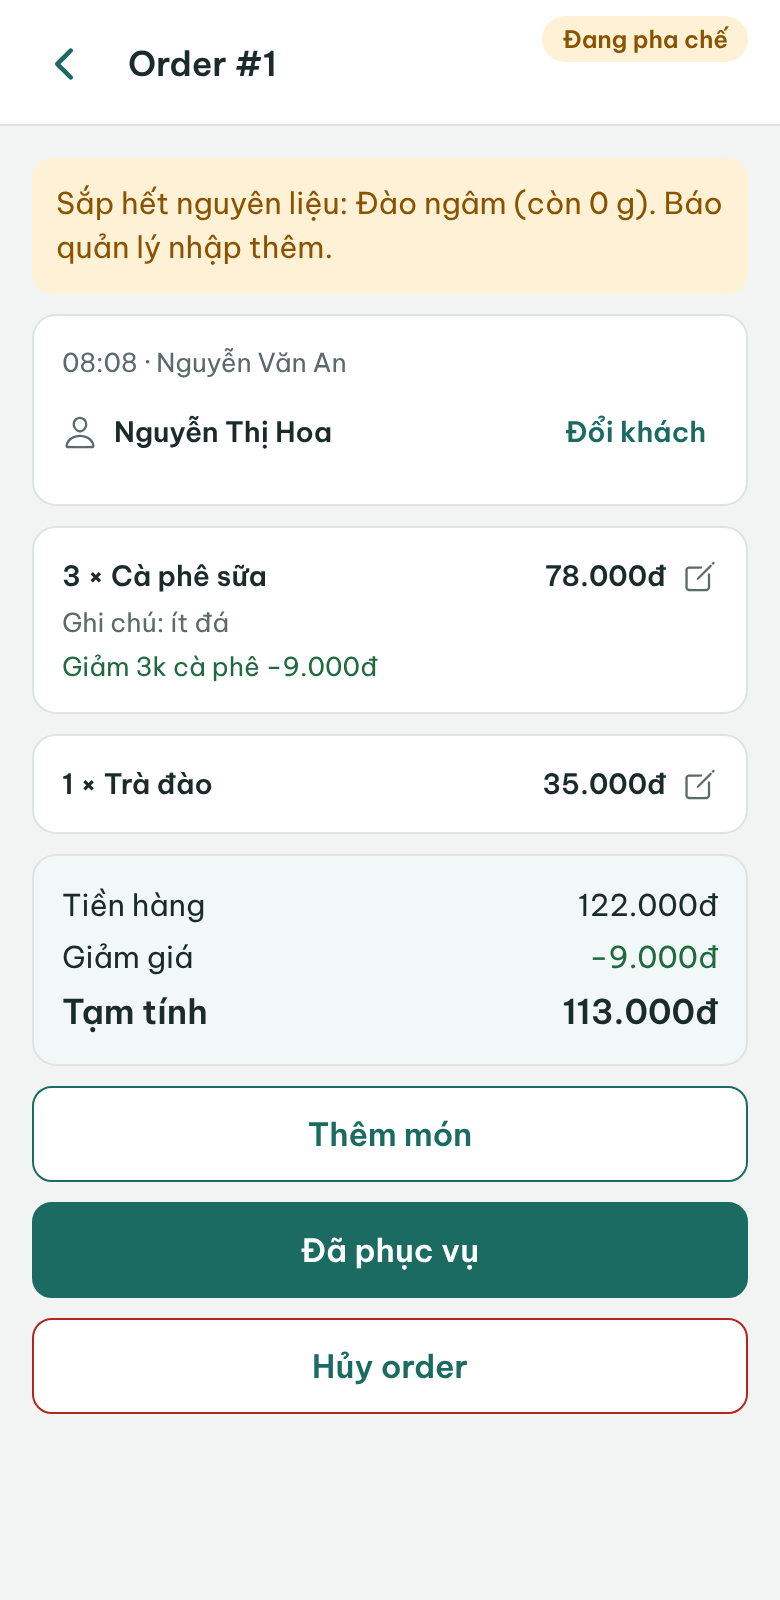
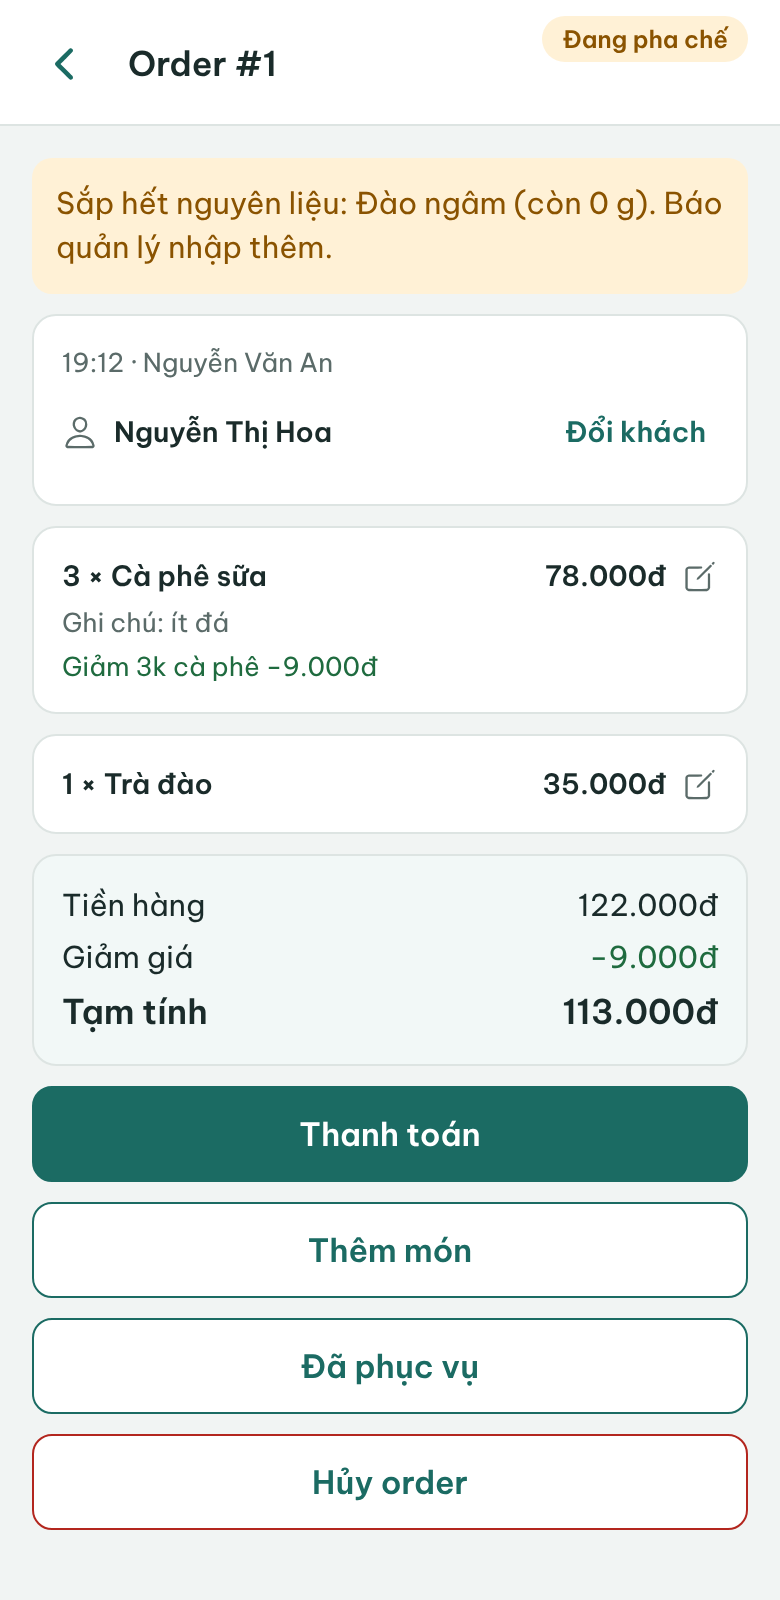
giao diện thanh toán

diff --git a/mobile/src/app/order/[ma].tsx b/mobile/src/app/order/[ma].tsx
@@ -1,17 +1,17 @@
 // POS-11 xem order + POS-03/04/05 sửa món + POS-06 gắn khách + POS-07 đã phục vụ + POS-09 hủy.
 import { useEffect, useState } from 'react';
-import { ActivityIndicator, Pressable, RefreshControl, ScrollView, StyleSheet, View } from 'react-native';
+import { ActivityIndicator, Pressable, RefreshControl, ScrollView, Share, StyleSheet, View } from 'react-native';
 import { useLocalSearchParams, useRouter } from 'expo-router';
 import { useSafeAreaInsets } from 'react-native-safe-area-context';
 import { Ionicons } from '@expo/vector-icons';
 import { useTai } from '../../hooks/useTai';
 import { useGioHang } from '../../context/GioHang';
-import { chiTietOrder, daPhucVu, ganKhach, huyOrder, orderDangMo, suaDong, TEN_TRANG_THAI, xoaDong, type DongOrder } from '../../api/hoa-don';
+import { chiTietOrder, daPhucVu, ganKhach, huyOrder, orderDangMo, suaDong, TEN_PHUONG_THUC, TEN_TRANG_THAI, thanhToan, xoaDong, type DongOrder, type KetQuaThanhToan, type Order, type PhuongThuc } from '../../api/hoa-don';
 import { ApiError, thongBaoLoi } from '../../api/http';
 import { Banner, Chip, Chu, Nut, The } from '../../components/ui';
 import { HopXacNhan } from '../../components/HopXacNhan';
-import { HopDaLam, HopGanKhach, HopSuaDong } from '../../components/HopHoiThoai';
-import { gioTuIso, tien } from '../../utils/tien';
+import { HopDaLam, HopGanKhach, HopSuaDong, HopThanhToan } from '../../components/HopHoiThoai';
+import { gioTuIso, ngayGio, tien } from '../../utils/tien';
 import { loaiChip } from '../(tabs)/order';
 import { mau } from '../../theme';
 
@@ -19,7 +19,14 @@ type Hop =
   | { loai: 'sua'; dong: DongOrder }
   | { loai: 'giam'; dong: DongOrder; soLuong: number; ghiChu: string | null }
   | { loai: 'xoa'; dong: DongOrder }
-  | { loai: 'khach' } | { loai: 'phucVu' } | { loai: 'huy' };
+  | { loai: 'khach' } | { loai: 'phucVu' } | { loai: 'huy' } | { loai: 'thanhToan' };
+
+// Nội dung hóa đơn dạng chữ để gửi qua Zalo/Messenger/in (POS-11)
+function vanBanHoaDon(o: Order) {
+  const dong = o.chi_tiet.map((d) => `${d.so_luong} x ${d.ten_san_pham}${d.ghi_chu ? ` (${d.ghi_chu})` : ''}: ${tien(d.thanh_tien)}`);
+  return ['HÓA ĐƠN #' + o.so_thu_tu, ngayGio(o.thoi_gian_tao), ...dong, `Tiền hàng: ${tien(o.tong_tien_hang)}`, ...(o.tong_giam_gia > 0 ? [`Giảm giá: -${tien(o.tong_giam_gia)}`] : []),
+    `TỔNG: ${tien(o.tong_tien ?? o.tong_tien_tam_tinh)}`, `Thanh toán: ${o.phuong_thuc_thanh_toan ? TEN_PHUONG_THUC[o.phuong_thuc_thanh_toan as PhuongThuc] ?? o.phuong_thuc_thanh_toan : ''}`, ...(o.ten_khach_hang ? [`Khách: ${o.ten_khach_hang}`] : []), `Nhân viên: ${o.ten_nhan_vien}`].join('\n');
+}
 
 export default function ChiTietOrder() {
   const { ma: maChuoi } = useLocalSearchParams<{ ma: string }>();
@@ -32,6 +39,7 @@ export default function ChiTietOrder() {
   const [dang, setDang] = useState(false);
   const [loiHop, setLoiHop] = useState('');
   const [baoKho] = useState(gio.canhBaoKho);
+  const [vuaTT, setVuaTT] = useState<KetQuaThanhToan | null>(null);
   useEffect(() => { if (gio.canhBaoKho.length) gio.datCanhBaoKho([]); }, [gio]); // nhận cảnh báo kho vừa gửi, rồi xóa khỏi giỏ
 
   const dong = () => { setHop(null); setLoiHop(''); };
@@ -43,6 +51,8 @@ export default function ChiTietOrder() {
     catch (e) { setLoiHop(thongBaoLoi(e)); if (e instanceof ApiError && e.ma === 'HOA_DON_DA_DONG') { dong(); taiNgam(); } }
     finally { setDang(false); }
   };
+
+  const chiaSe = async () => { if (o) { try { await Share.share({ message: vanBanHoaDon(o) }); } catch { /* người dùng đóng hộp chia sẻ */ } } };
 
   const quay = () => (router.canGoBack() ? router.back() : router.replace('/order'));
   const mo = o ? orderDangMo(o.trang_thai) : false;
@@ -58,7 +68,12 @@ export default function ChiTietOrder() {
       <ScrollView contentContainerStyle={{ padding: 16, gap: 10, paddingBottom: 24 }} refreshControl={<RefreshControl refreshing={dangLamMoi} onRefresh={lamMoi} colors={[mau.teal]} />}>
         {loi ? <Banner taiLai={taiLai}>{loi}</Banner> : null}
         {dangTai && !o ? <ActivityIndicator color={mau.teal} style={{ marginTop: 40 }} /> : null}
-        {baoKho.length > 0 && (
+        {vuaTT && o?.trang_thai === 'da_thanh_toan' && (
+          <Banner loai="ok">
+            Đã thanh toán {tien(vuaTT.hoa_don.tong_tien ?? 0)}.{vuaTT.diem_hien_tai !== null ? ` Cộng ${vuaTT.diem_cong} điểm, khách có ${vuaTT.diem_hien_tai} điểm.` : ' Khách lẻ, không tích điểm.'}
+          </Banner>
+        )}
+        {baoKho.length > 0 && mo && (
           <Banner loai="canhBao">
             Sắp hết nguyên liệu: {baoKho.map((c) => `${c.ten_nguyen_lieu} (còn ${c.so_luong_ton} ${c.don_vi_tinh})`).join(', ')}. Báo quản lý nhập thêm.
           </Banner>
@@ -66,7 +81,8 @@ export default function ChiTietOrder() {
         {o && (
           <>
             <The style={{ gap: 4 }}>
-              <Chu kieu="nho">{gioTuIso(o.thoi_gian_tao)} · {o.ten_nhan_vien}</Chu>
+              <Chu kieu="nho">{o.trang_thai === 'da_thanh_toan' ? ngayGio(o.thoi_gian_tao) : gioTuIso(o.thoi_gian_tao)} · {o.ten_nhan_vien}</Chu>
+              {o.trang_thai === 'da_thanh_toan' && o.phuong_thuc_thanh_toan ? <Chu kieu="nho">Thanh toán: {TEN_PHUONG_THUC[o.phuong_thuc_thanh_toan as PhuongThuc] ?? o.phuong_thuc_thanh_toan}</Chu> : null}
               <View style={s.hang}>
                 <Ionicons name="person-outline" size={18} color={mau.muted} />
                 <Chu kieu="nhan" style={{ flex: 1 }}>{o.ten_khach_hang ?? 'Khách lẻ'}</Chu>
@@ -96,9 +112,15 @@ export default function ChiTietOrder() {
 
             {mo ? (
               <View style={{ gap: 10 }}>
+                <Nut nhan="Thanh toán" onPress={() => setHop({ loai: 'thanhToan' })} />
                 <Nut nhan="Thêm món" kieu="vien" onPress={() => { gio.xoaHet(); gio.datDich({ ma_hoa_don: o.ma_hoa_don, so_thu_tu: o.so_thu_tu }); router.dismissTo('/'); }} />
-                {pha && <Nut nhan="Đã phục vụ" onPress={() => setHop({ loai: 'phucVu' })} />}
+                {pha && <Nut nhan="Đã phục vụ" kieu="vien" onPress={() => setHop({ loai: 'phucVu' })} />}
                 <Nut nhan="Hủy order" kieu="vien" onPress={() => setHop({ loai: 'huy' })} style={{ borderColor: mau.loi }} />
+              </View>
+            ) : o.trang_thai === 'da_thanh_toan' ? (
+              <View style={{ gap: 10 }}>
+                <Nut nhan="Chia sẻ hóa đơn" kieu="vien" onPress={chiaSe} />
+                <Chu kieu="nho" style={{ textAlign: 'center' }}>Hóa đơn đã thanh toán, không thể sửa.</Chu>
               </View>
             ) : <Chu kieu="nho" style={{ textAlign: 'center' }}>Order {TEN_TRANG_THAI[o.trang_thai].toLowerCase()}, không thể sửa.</Chu>}
           </>
@@ -127,6 +149,10 @@ export default function ChiTietOrder() {
       ) : (
         <HopXacNhan hien tieuDe="Xóa món?" noiDung={`Xóa ${hop.dong.ten_san_pham} khỏi order.${loiHop ? ` ${loiHop}` : ''}`} nhanXacNhan="Xóa món" nguyHiem onHuy={dong} onXacNhan={() => chay(() => xoaDong(ma, hop.dong.ma_chi_tiet))} />
       ))}
+      {o && hop?.loai === 'thanhToan' && (
+        <HopThanhToan key="tt" hien tong={o.tong_tien_tam_tinh} tenKhach={o.ten_khach_hang} loi={loiHop} dangXuLy={dang} onHuy={dong}
+          onXacNhan={(pt) => chay(async () => { setVuaTT(await thanhToan(ma, pt)); })} />
+      )}
       {hop?.loai === 'khach' && <HopGanKhach hien loi={loiHop} dangXuLy={dang} onHuy={dong} onGan={(sdt) => chay(() => ganKhach(ma, sdt))} />}
       {hop?.loai === 'phucVu' && <HopXacNhan hien tieuDe="Đã phục vụ?" noiDung={`Đánh dấu Order #${o?.so_thu_tu} đã phục vụ khách.${loiHop ? ` ${loiHop}` : ''}`} nhanXacNhan="Đã phục vụ" onHuy={dong} onXacNhan={() => chay(() => daPhucVu(ma))} />}
       {o && hop?.loai === 'huy' && (pha ? (

diff --git a/mobile/src/components/HopHoiThoai.tsx b/mobile/src/components/HopHoiThoai.tsx
@@ -1,7 +1,10 @@
 // Các hộp thoại của màn Order (dựng bằng Modal để chạy cả trên web).
 import { useState } from 'react';
-import { KeyboardAvoidingView, Modal, Platform, ScrollView, StyleSheet, View } from 'react-native';
+import { KeyboardAvoidingView, Modal, Platform, Pressable, ScrollView, StyleSheet, View } from 'react-native';
 import { bo, mau } from '../theme';
+import { Ionicons } from '@expo/vector-icons';
+import { DIEM_MOI_VND, TEN_PHUONG_THUC, type PhuongThuc } from '../api/hoa-don';
+import { tien } from '../utils/tien';
 import { BoDem, Chu, Nut, TruongNhap } from './ui';
 
 function Khung({ hien, onHuy, children }: { hien: boolean; onHuy: () => void; children: React.ReactNode }) {
@@ -84,7 +87,54 @@ export function HopSuaDong({ hien, ten, soLuong, ghiChu, toiThieuLaMot, loi, dan
   );
 }
 
+// POS-08: chọn phương thức thanh toán. Tiền mặt: nhập tiền khách đưa để xem tiền thối (chỉ để tham khảo, không gửi lên máy chủ).
+export function HopThanhToan({ hien, tong, tenKhach, loi, dangXuLy, onXacNhan, onHuy }: {
+  hien: boolean; tong: number; tenKhach: string | null; loi?: string; dangXuLy?: boolean; onXacNhan: (pt: PhuongThuc) => void; onHuy: () => void;
+}) {
+  const [pt, setPt] = useState<PhuongThuc>('tien_mat');
+  const [dua, setDua] = useState('');
+  const dauVao = Number(dua.replace(/\D/g, ''));
+  const goiY = [...new Set([tong, ...[20000, 50000, 100000, 200000, 500000].filter((m) => m > tong).slice(0, 3)])];
+  const diem = tenKhach ? Math.floor(tong / DIEM_MOI_VND) : 0;
+  return (
+    <Khung hien={hien} onHuy={onHuy}>
+      <Chu kieu="tieuMuc">Thanh toán</Chu>
+      <Chu kieu="tieuDe" style={{ color: mau.tealDam }}>{tien(tong)}</Chu>
+      <Chu kieu="nho">{tenKhach ? `Khách ${tenKhach}: cộng khoảng ${diem} điểm (cứ ${tien(DIEM_MOI_VND)} = 1 điểm).` : 'Khách lẻ: không tích điểm.'}</Chu>
+      {loi ? <Chu kieu="nho" style={{ color: mau.loi }}>{loi}</Chu> : null}
+      {(Object.keys(TEN_PHUONG_THUC) as PhuongThuc[]).map((k) => (
+        <Pressable key={k} accessibilityRole="radio" aria-checked={pt === k} accessibilityState={{ checked: pt === k }} accessibilityLabel={TEN_PHUONG_THUC[k]} onPress={() => setPt(k)} style={[s.chon, pt === k && { borderColor: mau.teal, backgroundColor: mau.tealHang }]}>
+          <Ionicons name={pt === k ? 'radio-button-on' : 'radio-button-off'} size={22} color={pt === k ? mau.teal : mau.muted} />
+          <Chu kieu="nhan">{TEN_PHUONG_THUC[k]}</Chu>
+        </Pressable>
+      ))}
+      {pt === 'tien_mat' && (
+        <View style={{ gap: 8 }}>
+          <TruongNhap nhan="Tiền khách đưa (không bắt buộc)" value={dua} onChangeText={setDua} keyboardType="number-pad" />
+          <View style={s.goiY}>
+            {goiY.map((m) => (
+              <Pressable key={m} accessibilityRole="button" accessibilityLabel={m === tong ? 'Vừa đủ' : `Đưa ${tien(m)}`} onPress={() => setDua(String(m))} style={s.chip}>
+                <Chu kieu="nhan" style={{ color: mau.teal }}>{m === tong ? 'Vừa đủ' : tien(m)}</Chu>
+              </Pressable>
+            ))}
+          </View>
+          {dua !== '' && (dauVao >= tong
+            ? <Chu kieu="tieuMuc" style={{ color: mau.okChu }}>Tiền thối: {tien(dauVao - tong)}</Chu>
+            : <Chu kieu="nhan" style={{ color: mau.loi }}>Chưa đủ, còn thiếu {tien(tong - dauVao)}</Chu>)}
+        </View>
+      )}
+      <View style={s.hang}>
+        <Nut nhan="Quay lại" kieu="vien" onPress={onHuy} style={{ flex: 1 }} />
+        <Nut nhan="Xác nhận thanh toán" dangXuLy={dangXuLy} onPress={() => onXacNhan(pt)} style={{ flex: 1.4 }} />
+      </View>
+    </Khung>
+  );
+}
+
 const s = StyleSheet.create({
+  chon: { flexDirection: 'row', alignItems: 'center', gap: 10, minHeight: 52, borderWidth: 1.5, borderColor: mau.line, borderRadius: bo.nho, paddingHorizontal: 12 },
+  goiY: { flexDirection: 'row', flexWrap: 'wrap', gap: 8 },
+  chip: { minHeight: 44, paddingHorizontal: 14, borderRadius: 999, borderWidth: 1.5, borderColor: mau.teal, justifyContent: 'center' },
   nen: { flex: 1, backgroundColor: 'rgba(26,43,42,0.5)', justifyContent: 'center', padding: 20 },
   hop: { backgroundColor: mau.be, borderRadius: bo.lon, padding: 18, gap: 12 },
   hang: { flexDirection: 'row', gap: 10, marginTop: 4 },

diff --git a/mobile/src/components/ui.tsx b/mobile/src/components/ui.tsx
@@ -34,12 +34,12 @@ export function Chip({ nhan, loai = 'teal' }: { nhan: string; loai?: 'teal' | 'o
   return <View style={[s.chip, { backgroundColor: m[0] }]}><Text style={[s.chipChu, { color: m[1] }]}>{nhan}</Text></View>;
 }
 
-export function Banner({ loai = 'loi', children, taiLai }: { loai?: 'loi' | 'canhBao'; children: ReactNode; taiLai?: () => void }) {
-  const loi = loai === 'loi';
+export function Banner({ loai = 'loi', children, taiLai }: { loai?: 'loi' | 'canhBao' | 'ok'; children: ReactNode; taiLai?: () => void }) {
+  const m = { loi: [mau.loiNen, mau.loiChu], canhBao: [mau.canhBaoNen, mau.canhBaoChu], ok: [mau.okNen, mau.okChu] }[loai];
   return (
-    <View accessibilityRole="alert" style={[s.banner, { backgroundColor: loi ? mau.loiNen : mau.canhBaoNen }]}>
-      <Text style={[kieuChu.than, { color: loi ? mau.loiChu : mau.canhBaoChu }]}>{children}</Text>
-      {taiLai && <Pressable accessibilityRole="button" onPress={taiLai} style={s.thuLai}><Text style={[kieuChu.nhan, { color: loi ? mau.loiChu : mau.canhBaoChu }]}>Thử lại</Text></Pressable>}
+    <View accessibilityRole="alert" style={[s.banner, { backgroundColor: m[0] }]}>
+      <Text style={[kieuChu.than, { color: m[1] }]}>{children}</Text>
+      {taiLai && <Pressable accessibilityRole="button" onPress={taiLai} style={s.thuLai}><Text style={[kieuChu.nhan, { color: m[1] }]}>Thử lại</Text></Pressable>}
     </View>
   );
 }

diff --git a/mobile/src/api/hoa-don.ts b/mobile/src/api/hoa-don.ts
@@ -1,4 +1,4 @@
-// POS-02..07, 09, 10, 11: order (hóa đơn). Thanh toán (POS-08) làm ở đợt sau.
+// POS-02..09, 10, 11: order (hóa đơn) và thanh toán.
 import { http } from './http';
 
 export type TrangThai = 'dang_pha_che' | 'da_phuc_vu' | 'da_thanh_toan' | 'huy';
@@ -40,3 +40,11 @@ export const daPhucVu = (ma: number) => http.patch<Order>(`/hoa-don/${ma}/trang-
 export const huyOrder = (ma: number, da_lam?: DaLam) => http.post<Order>(`/hoa-don/${ma}/huy`, da_lam && da_lam.length ? { da_lam } : {});
 export const ganKhach = (ma: number, so_dien_thoai: string) =>
   http.post<{ ma_khach_hang: number; ten_khach_hang: string; diem_tich_luy: number }>(`/hoa-don/${ma}/khach-hang`, { so_dien_thoai });
+
+// POS-08: thanh toán. Máy chủ chốt tiền từ các dòng, cộng điểm cho khách đang gắn (10.000đ = 1 điểm), không đụng kho.
+export type PhuongThuc = 'tien_mat' | 'chuyen_khoan' | 'vi';
+export const TEN_PHUONG_THUC: Record<PhuongThuc, string> = { tien_mat: 'Tiền mặt', chuyen_khoan: 'Chuyển khoản', vi: 'Ví điện tử' };
+export const DIEM_MOI_VND = 10000;
+export type KetQuaThanhToan = { hoa_don: Order; diem_cong: number; diem_hien_tai: number | null };
+export const thanhToan = (ma: number, phuong_thuc_thanh_toan: PhuongThuc) =>
+  http.post<KetQuaThanhToan>(`/hoa-don/${ma}/thanh-toan`, { phuong_thuc_thanh_toan });

diff --git a/mobile/src/utils/tien.ts b/mobile/src/utils/tien.ts
@@ -6,3 +6,4 @@ export const tien = (n: number) => {
 const hai = (n: number) => String(n).padStart(2, '0');
 export const gioTuIso = (s: string) => { const d = new Date(s); return `${hai(d.getHours())}:${hai(d.getMinutes())}`; };
 export const boDau = (s: string) => s.normalize('NFD').replace(/[̀-ͯ]/g, '').replace(/đ/g, 'd').replace(/Đ/g, 'D').toLowerCase();
+export const ngayGio = (s: string) => { const d = new Date(s); return `${hai(d.getDate())}/${hai(d.getMonth() + 1)}/${d.getFullYear()} ${hai(d.getHours())}:${hai(d.getMinutes())}`; };

diff --git a/NOTES.md b/NOTES.md
@@ -373,3 +373,15 @@
 - Sửa kèm: BoDem chỉ hiện biểu tượng thùng rác ở giỏ/menu (nơi giảm về 0 là xóa), trong hộp "đã pha" vẫn là dấu trừ; ô nhập trên web bỏ viền focus đôi; script kiểm thử tách khung dùng chung `scripts/lib-smoke.mjs`; đã xóa thư mục `.git` do mẫu create-expo-app tạo trong mobile/.
 - Kiểm tra: `tsc --noEmit` sạch, `eslint src` sạch (`expo lint` cũng sạch), `expo export --platform web` qua; `smoke-web.mjs` 30/30 (có thêm kiểm tra mở app ở tab Gọi món), `smoke-goi-mon.mjs` 32/32 (menu, tìm không dấu, lọc, giới hạn 2 ly, giỏ, gửi đúng body, sửa/bớt/xóa với da_lam, gắn khách 3 trường hợp, thêm vào order, đã phục vụ, danh sách + lọc, hủy 2 kiểu, 409 thiếu nguyên liệu). Ảnh: mobile/scripts/anh-smoke/gm-*.png.
 - Giới hạn đã biết: chưa thử máy thật / backend thật (API giả chỉ mô phỏng các luật chính); order mới trong ngày tính theo giờ CSDL còn giờ hiển thị theo giờ điện thoại; giỏ không lưu khi tắt app; mỗi món chỉ một dòng trong giỏ (cùng món khác ghi chú phải gửi hai lần hoặc thêm vào order sau).
+
+
+## Bước 12 – App điện thoại cho nhân viên, đợt 3: Thanh toán + xem hóa đơn (đã làm; test bằng bản web + API giả có trạng thái; CHƯA chạy trên máy thật, CHƯA chạy với backend/MySQL thật)
+- Màn chi tiết order (`order/[ma].tsx`) có nút chính **Thanh toán** cho order đang pha chế HOẶC đã phục vụ (backend cho cả hai); "Đã phục vụ" thành nút viền phụ. Hộp thanh toán (`HopThanhToan` trong components/HopHoiThoai.tsx): tổng tiền, chọn Tiền mặt (mặc định) / Chuyển khoản / Ví điện tử, gửi `POST /hoa-don/:ma/thanh-toan {phuong_thuc_thanh_toan}`.
+- Tiền mặt: ô "Tiền khách đưa" (không bắt buộc) + gợi ý "Vừa đủ" và các mệnh giá lớn hơn tổng; hiện "Tiền thối" hoặc "Chưa đủ, còn thiếu"; số này CHỈ để tham khảo, không gửi lên máy chủ (backend không lưu tiền khách đưa).
+- Điểm: nếu order có khách thì hộp ghi "cộng khoảng N điểm (cứ 10.000đ = 1 điểm)" (tính ở client theo hằng số của backend); sau khi thanh toán banner hiện số điểm thật máy chủ trả về (`diem_cong`, `diem_hien_tai`). Khách lẻ: "không tích điểm", thanh toán vẫn bình thường (khớp backend: không khách thì diem_cong = 0).
+- Hóa đơn đã thanh toán (POS-11): chỉ đọc, hiện ngày giờ đầy đủ, phương thức thanh toán, tiền hàng / giảm giá / tổng tiền ĐÃ CHỐT (`tong_tien`), khuyến mãi từng dòng, nút **Chia sẻ hóa đơn** dùng hộp chia sẻ của hệ điều hành (Zalo, Messenger, in qua ứng dụng khác...) với nội dung chữ: số hóa đơn, ngày giờ, các món, tổng, phương thức, khách, nhân viên. Chưa có in nhiệt/PDF.
+- Lỗi: 409 HOA_DON_DA_DONG (order bị hủy/thanh toán ở máy khác) -> đóng hộp và tải lại để hiện đúng trạng thái; lỗi khác hiện ngay trong hộp. Backend nhận thanh toán nhiều lần chỉ chốt một lần (khóa dòng hóa đơn), nên bấm đúp không thu hai lần; nút chuyển sang vòng xoay khi đang gửi.
+- Ghi chú nhỏ: banner "sắp hết nguyên liệu" chỉ hiện khi order còn mở; Banner có thêm kiểu `ok` (xanh); radio dùng `aria-checked` để trình đọc màn hình/kiểm thử web đọc được. Tách API giả dùng chung ra `scripts/mock-api.mjs` (thêm /thanh-toan).
+- Kiểm tra: `tsc --noEmit`, `eslint src`, `expo lint` sạch; `expo export --platform web` qua; `smoke-web` 30/30, `smoke-goi-mon` 32/32, `smoke-thanh-toan` 15/15 (hộp thanh toán, tiền thối / thiếu, chọn chuyển khoản ẩn ô tiền, body gửi đúng, banner điểm 8 / 48, hóa đơn read-only, nội dung chia sẻ, lọc "Đã thanh toán", khách lẻ + chuyển khoản, 409 khi order bị hủy giữa chừng). Ảnh: mobile/scripts/anh-smoke/tt-*.png.
+- Giới hạn đã biết: chưa thử máy thật / backend thật; chuyển khoản và ví chỉ GHI NHẬN phương thức, chưa nối cổng thanh toán hay mã QR; số điểm "dự kiến" ở hộp là ước tính, số thật là của máy chủ; chia sẻ trên web phụ thuộc trình duyệt có `navigator.share`.
+- Tiếp theo (đợt 4): Tạo nhanh khách hàng (KH-01 tạo, KH-03 tìm theo SĐT) ngay trong hộp "Gắn khách" khi SĐT chưa đăng ký.

diff --git a/mobile/README.md b/mobile/README.md
@@ -2,13 +2,14 @@
 
 Đợt 1: đăng nhập, **Lịch làm việc của tôi** (NS-07), **Cá nhân** (đổi mật khẩu AUTH-02, đăng xuất).
 Đợt 2: **Gọi món** (POS-01 menu, POS-02 tạo order, POS-03/04/05 thêm/sửa/xóa món, POS-06 gắn khách, POS-07 đã phục vụ, POS-09 hủy, POS-10 danh sách order hôm nay, POS-11 chi tiết order).
-Các đợt sau: Thanh toán (POS-08) + xem hóa đơn, Tạo nhanh khách hàng.
+Đợt 3: **Thanh toán** (POS-08: tiền mặt / chuyển khoản / ví, tiền thối, điểm tích lũy) và **xem / chia sẻ hóa đơn** đã thanh toán (POS-11).
+Đợt sau: Tạo nhanh khách hàng (KH-01/KH-03).
 
 ## Cấu trúc
 ```
 mobile/
 ├─ app.json, package.json, tsconfig.json, eslint.config.js, .env.example
-├─ scripts/{lib-smoke,smoke-web,smoke-goi-mon}.mjs   # kiểm thử giao diện (playwright, API giả) + anh-smoke/*.png
+├─ scripts/{lib-smoke,mock-api,smoke-web,smoke-goi-mon,smoke-thanh-toan}.mjs   # kiểm thử giao diện (playwright, API giả) + anh-smoke/*.png
 └─ src/
    ├─ app/                      # Expo Router: mỗi file là một màn
    │  ├─ _layout.tsx            # font, PhienProvider, Stack.Protected (chưa đăng nhập -> dang-nhap)
@@ -33,7 +34,7 @@ mobile/
 
 ## Kiểm tra
 - `npm run kiem-tra` (tsc), `npm run lint`
-- `npm run build-web` rồi `npm run smoke-web` (đăng nhập, lịch, cá nhân) và `npm run smoke-goi-mon` (gọi món, order). Cần playwright; nếu cài ở nơi khác: `PW_DIR=<thư mục có playwright> node scripts/smoke-goi-mon.mjs`.
+- `npm run build-web` rồi `npm run smoke-web` (đăng nhập, lịch, cá nhân) `npm run smoke-goi-mon` (gọi món, order) và `npm run smoke-thanh-toan` (thanh toán, hóa đơn). Cần playwright; nếu cài ở nơi khác: `PW_DIR=<thư mục có playwright> node scripts/smoke-goi-mon.mjs`.
 - Chạy bản web của app (`npx expo start --web`, cổng 8081) cần backend cho phép CORS từ `http://localhost:8081`: `CORS_ORIGIN=http://localhost:5173,http://localhost:8081` trong backend/.env.
 
 ## Ghi chú
